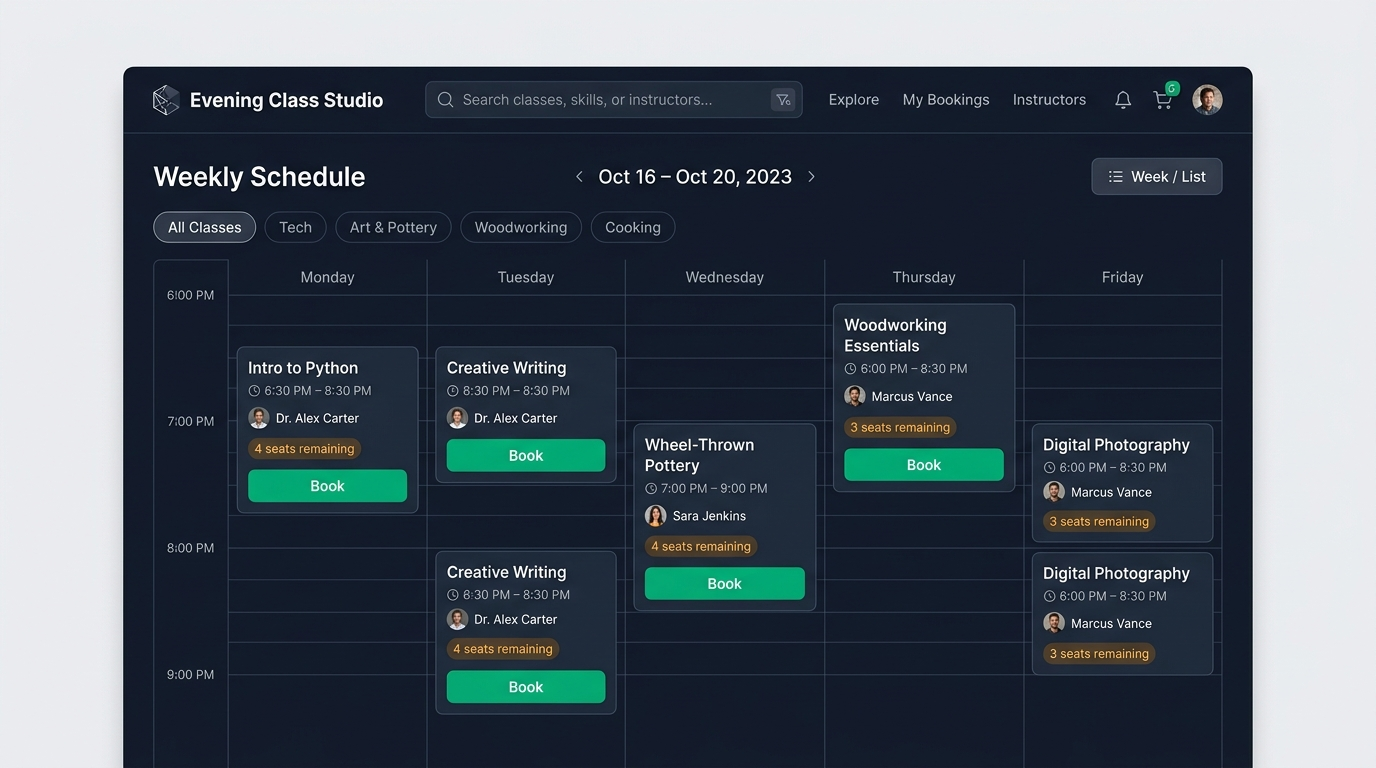
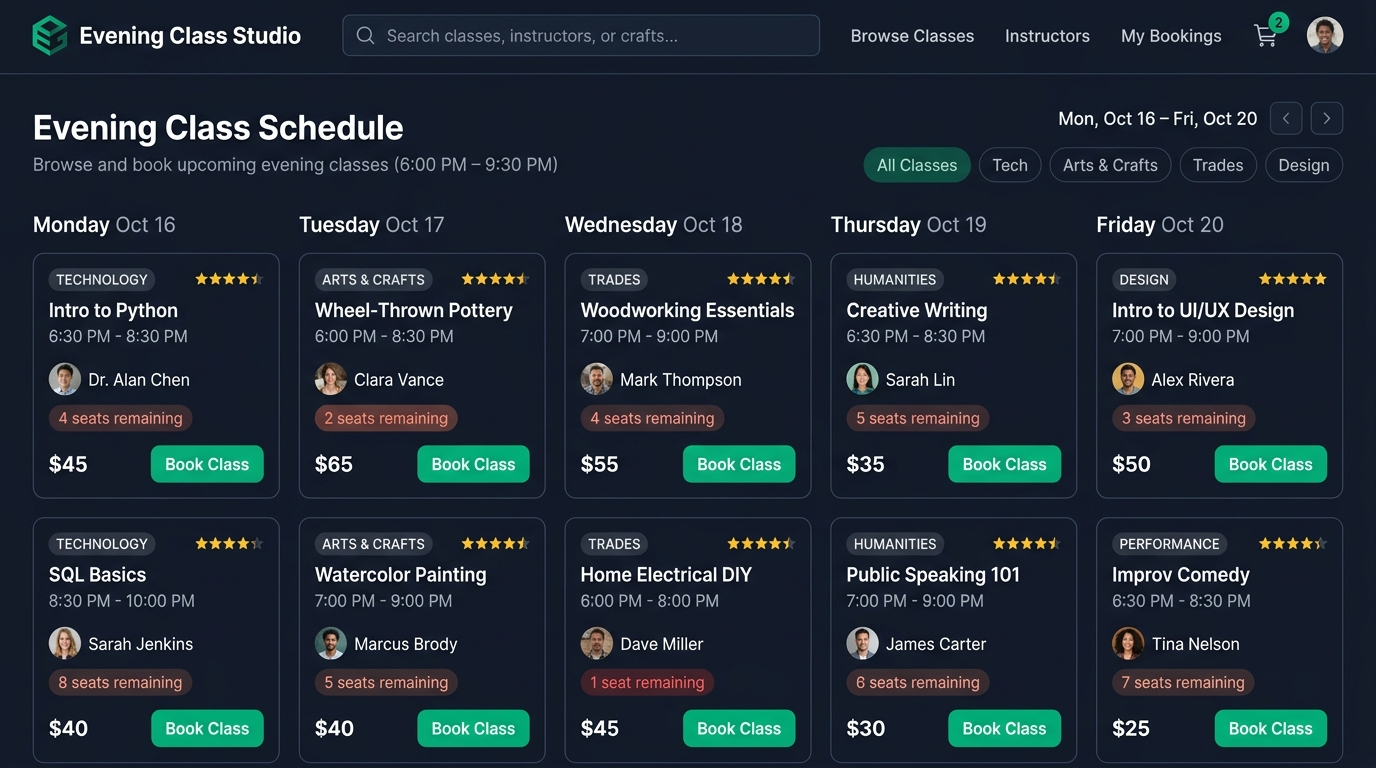
chore(docs): force step1-browse to render as full-bleed web canvas

diff --git a/docs/design/archetypes/booking/README.md b/docs/design/archetypes/booking/README.md
@@ -12,9 +12,9 @@
 ## Multi-Step Journey & State Reference Boards
 
 1. **Step 1: Browse & Schedule Selection**
[2 lines of base64/hex data omitted]
    - Model: `gemini-nano-banana-2.1` (gateway-attested)
-   - Prompt: "High-fidelity, production-quality unframed desktop web application UI of an evening class booking web application. Realistic modern UI design with crisp clean typography, realistic content density, precise grid alignment, and polished micro-details matching layout-storefront.jpg. Deep slate dark background #0f172a, card surface #1e293b with subtle 1px border #334155, vivid emerald green action buttons #10b981. The viewport shows a real desktop web page with top navigation (Logo, 'Evening Class Studio', Search bar, Cart badge), an interactive weekly schedule matrix (Monday-Friday 6:00pm-9:00pm) displaying actual course cards: 'Intro to Python (6:30 PM)', 'Wheel-Thrown Pottery', 'Woodworking Essentials', each with instructor portrait, class time, pill badge showing '4 seats remaining'. Clean system-ui font, sharp text rendering, realistic browser layout. NOT a sketch, NOT a hand-drawn illustration, NOT a wireframe, NOT low-fidelity."
+   - Prompt: "High-fidelity, production-quality unframed desktop web application UI of an evening class booking web application. Realistic modern UI design with crisp clean typography, realistic content density, precise grid alignment, and polished micro-details matching layout-storefront.jpg. Deep slate dark background #0f172a, card surface #1e293b with subtle 1px border #334155, vivid emerald green action buttons #10b981. The viewport shows a real desktop web page with top navigation (Logo, 'Evening Class Studio', Search bar, Cart badge), an interactive weekly schedule matrix (Monday-Friday 6:00pm-9:00pm) displaying actual course cards: 'Intro to Python (6:30 PM)', 'Wheel-Thrown Pottery', 'Woodworking Essentials', each with instructor portrait, class time, pill badge showing '4 seats remaining'. Clean system-ui font, sharp text rendering, full-bleed edge-to-edge web canvas with no floating window and no exterior drop shadow. NOT a sketch, NOT a hand-drawn illustration, NOT a wireframe, NOT low-fidelity."
    - Intent: Production weekly schedule matrix with class cards, instructor avatars, capacity indicators, and direct 'Book Now' actions.
 
 2. **Step 2: Details & Seat Selection**

diff --git a/docs/provenance/assets/archetype-asset-sets.md b/docs/provenance/assets/archetype-asset-sets.md
@@ -35,12 +35,12 @@ store, the register or the target have moved apart.
 ### booking
 
 - Target: `docs/design/archetypes/booking`
[3 lines of base64/hex data omitted]
 - Documents: `docs/design/archetypes/booking/demo/compare.html`, `docs/design/archetypes/booking/demo/confirmation.html`, `docs/design/archetypes/booking/demo/empty.html`, `docs/design/archetypes/booking/demo/index.html`
 - Rights: `excluded_from_training: true`, `approved_for_training: false` from `docs/design/archetypes/booking/README.md:7`
 - Brand: `Evening Class Studio` (adjudicated: The accepted target's own heading and every one of its five board prompts name 'Evening Class Studio'; the demo page carries 'Learning Hub' instead. The demo's own README states it is an implementation of the visual language ESTABLISHED BY those boards, and it was authored 2026-10-09 while the boards were regenerated and accepted on 2026-10-11, so the boards are the source and 'Learning Hub' is the demo's drift. PROVISIONAL: this is a lane recommendation recorded with its evidence, not an owner decision - Paul should confirm which brand the archetype owns, or rename the demo. — 2026-10-11)
[2 lines of base64/hex data omitted]
 
 ### catalogue
 

diff --git a/docs/provenance/assets/design-reference-booking.md b/docs/provenance/assets/design-reference-booking.md
@@ -17,7 +17,7 @@
 
 | Board | Purpose | SHA-256 | Bytes |
 | --- | --- | --- | ---: |
[5 lines of base64/hex data omitted]
